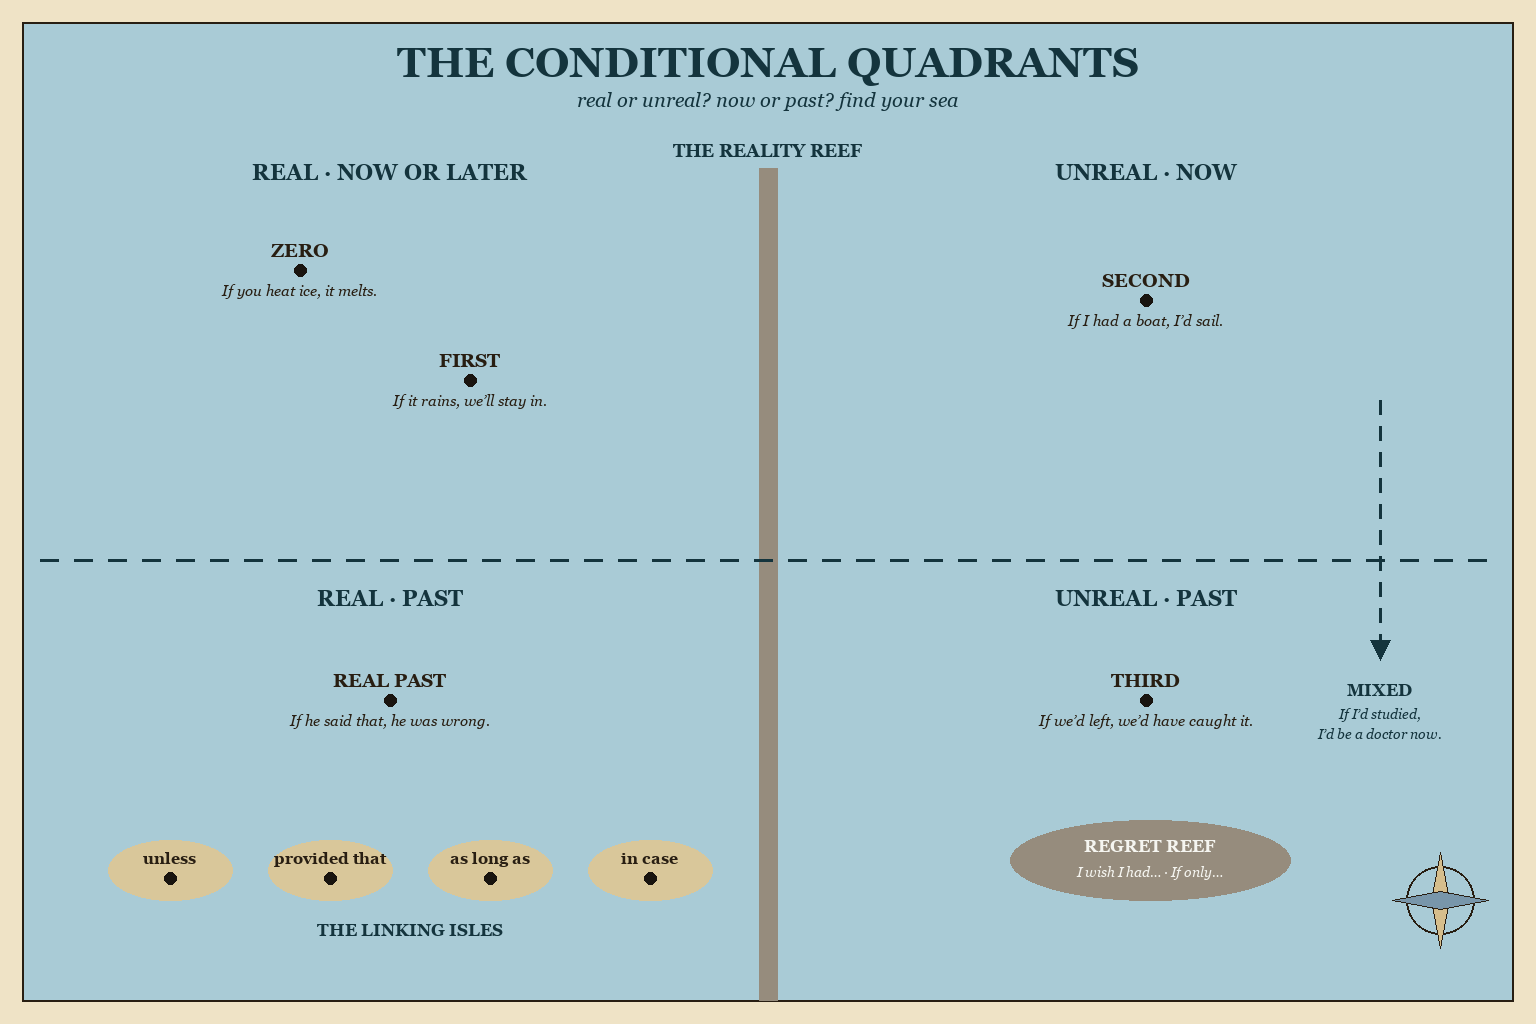
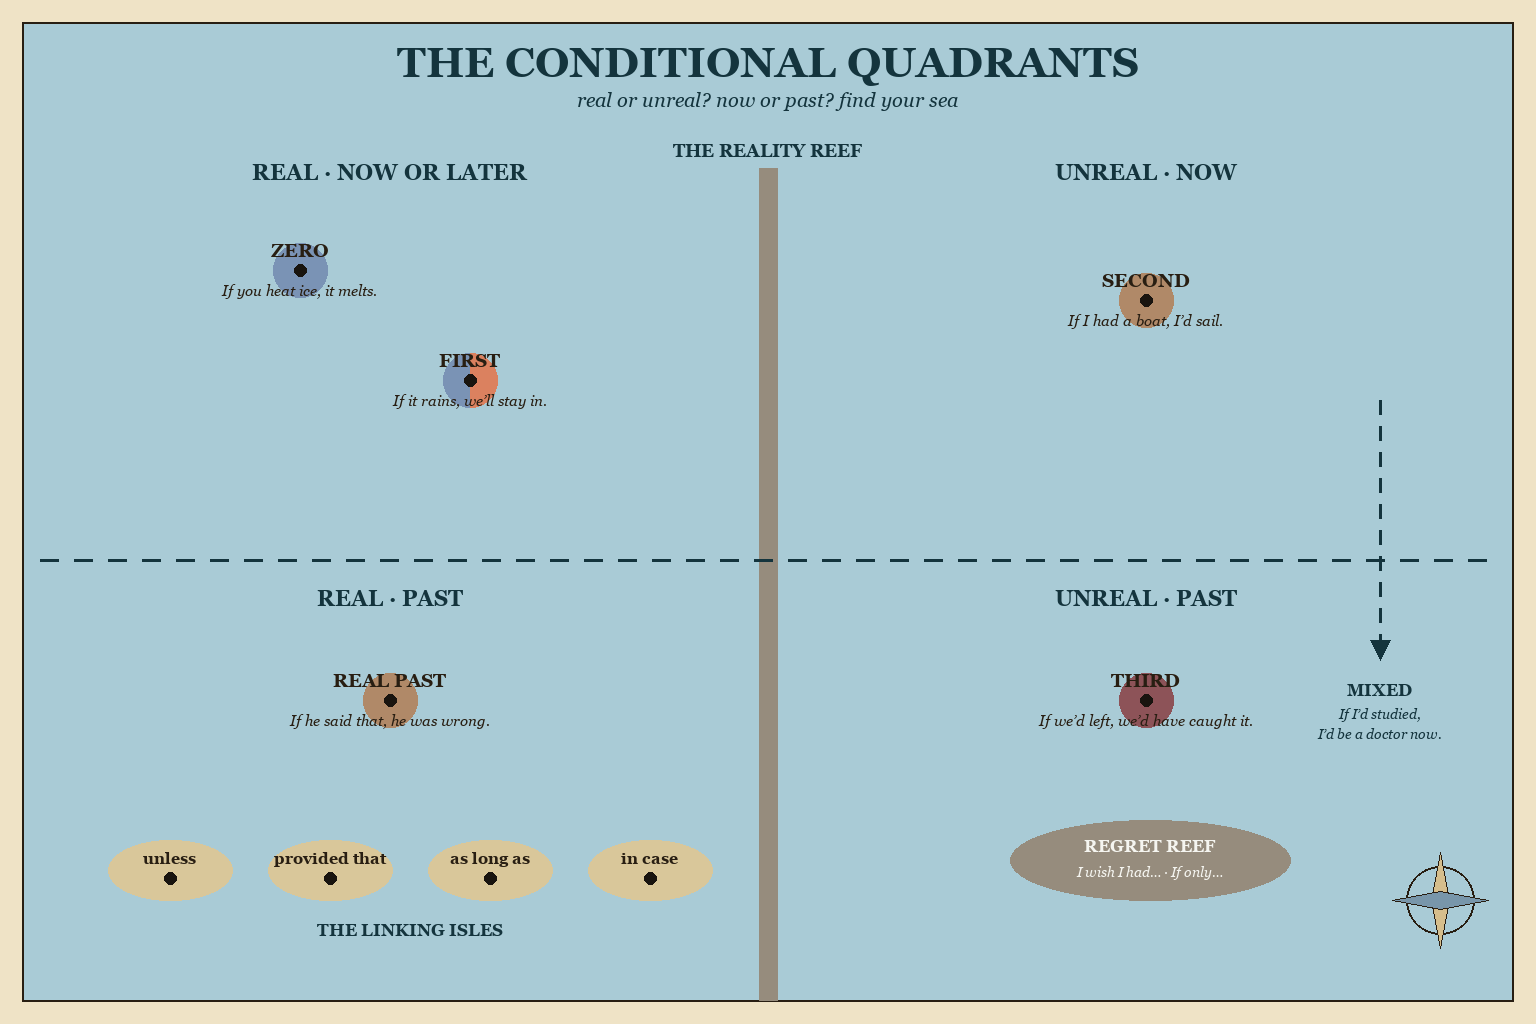
Conditional Quadrants: each conditional's tenses in their Sherpa colours

diff --git a/lesson-template/build/sea_layouts_4.py b/lesson-template/build/sea_layouts_4.py
@@ -115,6 +115,17 @@ def quadrants():
     text(d, (1146, 172), 'UNREAL · NOW', 22, 'b', SEA_INK)
     text(d, (390, 598), 'REAL · PAST', 22, 'b', SEA_INK)
     text(d, (1146, 598), 'UNREAL · PAST', 22, 'b', SEA_INK)
+    # each conditional's tenses in their Sherpa colours, under its harbour: the
+    # if-clause on the left half, the result on the right. WOULD and WOULD HAVE
+    # are not tenses, so a clause built on them leaves the disc one colour.
+    for (x, y), (a, b) in (((300, 270), ('present-simple', 'present-simple')),
+                           ((470, 380), ('present-simple', 'future-simple')),
+                           ((1146, 300), ('past-simple', 'past-simple')),
+                           ((390, 700), ('past-simple', 'past-simple')),
+                           ((1146, 700), ('past-perfect', 'past-perfect'))):
+        box = (x - 27, y - 27, x + 27, y + 27)
+        d.pieslice(box, 90, 270, fill=T[a])
+        d.pieslice(box, 270, 90, fill=T[b])
     harbour(d, 300, 270, 'ZERO', 'If you heat ice, it melts.')
     harbour(d, 470, 380, 'FIRST', 'If it rains, we’ll stay in.')
     harbour(d, 1146, 300, 'SECOND', 'If I had a boat, I’d sail.')

diff --git a/docs/HANDOFF.md b/docs/HANDOFF.md
@@ -197,8 +197,9 @@ redrawn with it: Finished Time (past simple) & Open Time (present perfect),
 Statia (present simple) & Actia (present continuous), the Passive Ferry (a
 lane and a disc per tense) and the Backshift Current (a disc per harbour).
 The brief already says "keep each landmass its colour", so ChatGPT must be
-given THESE four drafts, not the earlier ones. The Conditional Quadrants name
-no tense and were left; say so if Innes wants them coloured too. When the
+given THESE four drafts, not the earlier ones. The Conditional Quadrants
+followed on his "Colour them": a disc under each harbour, if-clause tense on
+the left half, result on the right (WOULD is not a tense, so it adds none). When the
 paintings come back, check each tense's land against `sea_tense.T` before
 building, and use the same colours in the page's label layer and panels.
 
